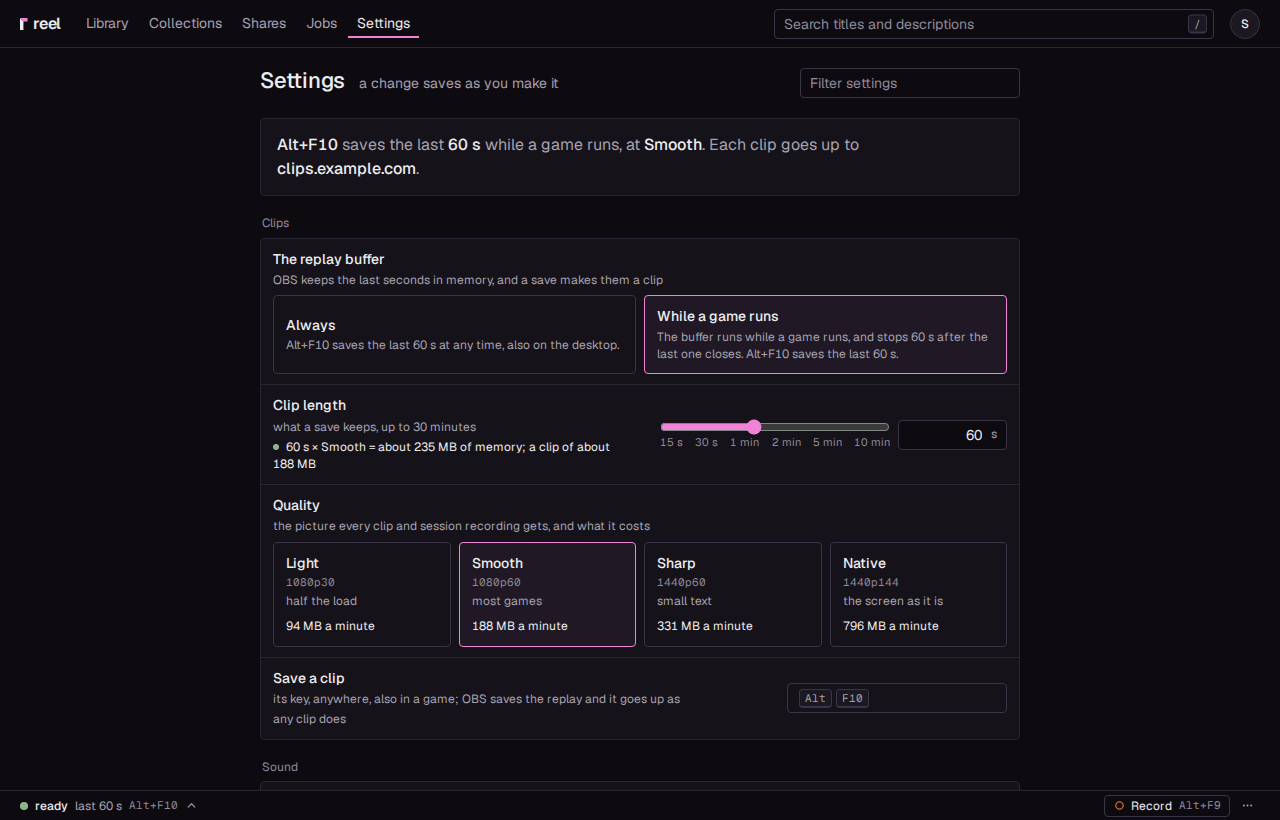
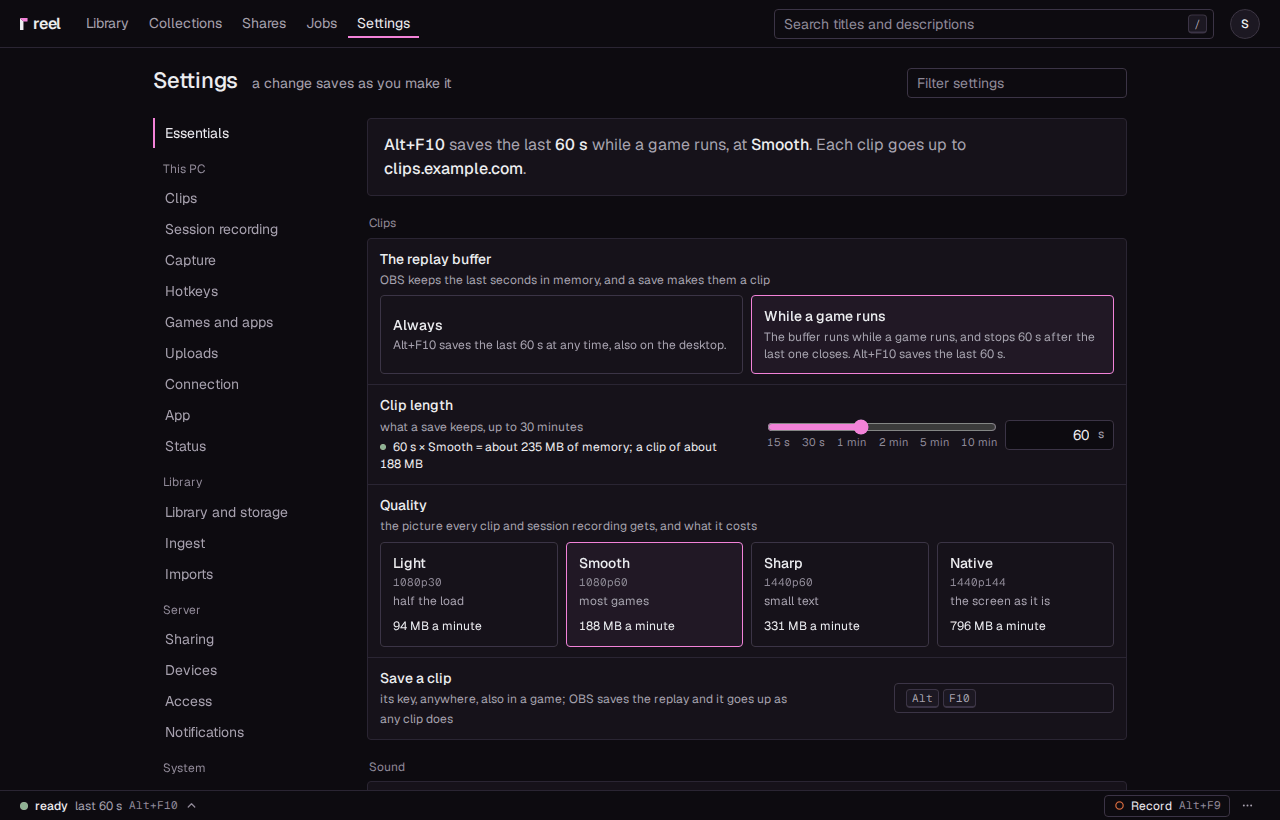
docs: Settings' nav, Essentials and the Hotkeys page, and their pictures
The docs name Essentials where they named Settings' first page, the nav where they named
More, and Hotkeys where a key is set. The desktop app's page says how the nav lists every
page, the app's and the server's, and Hotkeys has its picture. The pictures of Settings are
taken again by the repository's scripts, with Hotkeys among them.

diff --git a/docs/desktop-app.md b/docs/desktop-app.md
@@ -59,9 +59,9 @@ what only a server needs: share links (the clip page's Share, a collection's lin
 clip's menu and in the Select bar, the Shares page), members and sign-in, the Devices page, the
 public address, notifications to ntfy or a webhook, external storage, the incoming folder, the
 first run and the restart. Their addresses answer "Not in standalone" with what to do instead.
-Settings is the same, with the pages a library on one PC has: its first page, **More** without
-**Uploads**, and at its foot **Library**, reel on this PC: **Library and storage**, **Library
-folder**, **Ingest**, **Encoding**, **Copies under a size**, **Imports**, **General**,
+Settings is the same, with the pages a library on one PC has: its nav lists **Essentials**, this
+PC's pages without **Uploads**, then the library's, reel on this PC: **Library and storage**,
+**Library folder**, **Ingest**, **Encoding**, **Copies under a size**, **Imports**, **General**,
 **Appearance** and **Advanced**.
 
 A server can be paired while the app stays standalone: **Upload to the server** on Settings,
@@ -139,9 +139,9 @@ does is in a bar along the window's foot:
   on this PC runs; its dot turns red only for a check of the PC's own (its room, ffmpeg, the
   database), and **Pause uploads** shows once a server is paired. Esc closes the menu, and the
   keyboard reaches all of it.
-- **Settings** opens on what is set and the few settings most people change, each with what it
-  costs; **More** lists the app's other pages, and the server's pages (in standalone, the
-  library's) follow at its foot. Ctrl+, opens Settings from anywhere in the window.
+- **Settings** opens on **Essentials**: what is set and the few settings most people change, each
+  with what it costs. Its nav lists every other page, this PC's and then the server's (in
+  standalone, the library's). Ctrl+, opens Settings from anywhere in the window.
 
 The window has no address bar. A clip's page has its own back button above the player, and the
 mouse's back and forward buttons, Alt+Left and Alt+Right walk back and forth through the pages,
@@ -203,7 +203,7 @@ plays the recording.
 
 ## The app's pages
 
-Settings opens on its first page: a sentence of what is set (the key that saves a clip, how long
+Settings opens on **Essentials**: a sentence of what is set (the key that saves a clip, how long
 a clip is, when the replay buffer runs, the quality, and where a clip goes), then the settings
 most people change, each with what it costs:
 
@@ -216,26 +216,30 @@ most people change, each with what it costs:
 - **Start with Windows** (**Start at logon** on Linux).
 
 With your own OBS, **Clip length** is OBS's replay length, and the picture and the microphone are
-OBS's own: the first page says so, and points to **Capture**.
+OBS's own: Essentials says so, and points to **Capture**.
 
-**More** lists the app's other pages, each with what is set there, and opens each as a page of its
-own, with **Settings** above it to go back. They are kept on this PC, each PC with its own. The
-server's pages follow at the foot of the first page, under **Server**, kept on the server, the
-same for every PC and browser; in standalone the library's follow under **Library**, with
-**Library folder** and **Encoding** among them.
+The nav on the left lists every page of Settings: **Essentials**, then **This PC**, the app's own
+pages, kept on this PC, each PC with its own; then the server's pages under **Library**,
+**Server** and **System**, kept on the server, the same for every PC and browser. In standalone
+the library's pages follow under **Library**, with **Library folder** and **Encoding** among them.
+A server's page opens in the window with the same nav and the same head, so going from one page
+to another changes the page and nothing around it. In a narrow window the nav is a list at the top
+of the page. Back and Forward come back to where you were on a page; a page opened from the nav
+starts at its top.
 
-![Settings, its first page](img/app-settings.png)
+![Settings, Essentials](img/app-settings.png)
 
 | Page | Where | What it holds |
 |---|---|---|
-| **Clips** | More | **Save a clip now**; with your own OBS **Start it in OBS**, which starts its replay buffer; **Keep the last**; connected, the keys **Save and share** and **Share the last clip**; the **Sounds** (clip captured, no clip, clip uploaded or in standalone clip in the library, and link copied), each on or off, with a volume, a WAV file of your own and **Preview**; and **On this PC**: the **Clips folder** and, connected, how long a clip stays on the PC after the server has it |
-| **Session recording** | More | **Record a session**, its key; **With a game**: every game records by itself, and the recording stops when its game closes; the reminders while a [session recording](#recording-a-whole-session) runs: **Remind every** and their sound, on or off, with a volume, a WAV file of your own and **Preview**; the sound also plays when a recording starts |
-| **Capture** | More | **Picture** (the encoder and the format; with your own OBS, the format and the bitrate), **What it captures** (the game in front, games that run as administrator), **Sound** (desktop audio, the game alone, Discord alone, the microphone's noise suppression and gate, a track for each source, the levels), and **The OBS behind it**: with reel's own OBS (the one that came with reel on Windows, the installed one run a second time on Linux) which OBS and how it runs, **Open OBS** on Windows and **Run the setup again**; with your own OBS the obs-websocket connection with **Run the setup**. Folded under it: **What reel needs from OBS**, **What OBS is set to** (its profile among it) and how reel finds a new clip (**Follow OBS**, the file endings, **Still for**) |
-| **Games and apps** | More | the programs reel has seen: which ones are games, and the name each gives its clips; Steam's installed games come in by themselves; **Show on Discord**; and **When a game closes**, its grace period. The count beside it is of those not sorted yet. See [Games and apps](games-and-apps.md) |
-| **Uploads** | More, connected | **Upload the last clip**, its key; on Windows **Uploads wait while a game has the screen**, off unless you turn it on (never for a Save and share, whose upload goes at once, ahead of the others); a bandwidth limit and the chunk size. See [The waits](games-and-apps.md#the-waits) |
-| **Connection** | More | **Mode** (connected or standalone), the **Server URL**, the **Device name** and the pairing; in standalone under **A server, later**, and with a server paired **Sending to it**, its bandwidth limit and chunk size |
-| **App** | More | the **Tray icon**, the app's **Updates**, its **Versions**, and **About** (the version, the folders the app keeps its settings and data in, and on Windows **Uninstall reel...**); in standalone **Look for new versions on GitHub** |
-| **Status** | More | the connections (the server, OBS, the clips folder, the hotkeys, on Linux the tray), the queue with **Upload now** and **Retry**, the last clips with **Copy link** and **Open**, and the **Log**: what the app did, newest at the bottom, the **Log level** and **Open the log folder**. In standalone: the library on this PC in place of the server, a **Standalone** panel (where the library lives, the encoder, ffmpeg), **Add now** and **Retry** to take a clip into the library, the last clips with **Open**, and **Upload to the server** once a server is paired |
+| **Clips** | This PC | **Save a clip now**; with your own OBS **Start it in OBS**, which starts its replay buffer; **Keep the last**; connected, the keys **Save and share** and **Share the last clip**; the **Sounds** (clip captured, no clip, clip uploaded or in standalone clip in the library, and link copied), each on or off, with a volume, a WAV file of your own and **Preview**; and **On this PC**: the **Clips folder** and, connected, how long a clip stays on the PC after the server has it |
+| **Session recording** | This PC | **Record a session**, its key; **With a game**: every game records by itself, and the recording stops when its game closes; the reminders while a [session recording](#recording-a-whole-session) runs: **Remind every** and their sound, on or off, with a volume, a WAV file of your own and **Preview**; the sound also plays when a recording starts |
+| **Capture** | This PC | **Picture** (the encoder and the format; with your own OBS, the format and the bitrate), **What it captures** (the game in front, games that run as administrator), **Sound** (desktop audio, the game alone, Discord alone, the microphone's noise suppression and gate, a track for each source, the levels), and **The OBS behind it**: with reel's own OBS (the one that came with reel on Windows, the installed one run a second time on Linux) which OBS and how it runs, **Open OBS** on Windows and **Run the setup again**; with your own OBS the obs-websocket connection with **Run the setup**. Folded under it: **What reel needs from OBS**, **What OBS is set to** (its profile among it) and how reel finds a new clip (**Follow OBS**, the file endings, **Still for**) |
+| **Hotkeys** | This PC | every hotkey of the app, each set there or with the settings it belongs to: **Save a clip** (also under Essentials), **Save and share** and **Share the last clip** (also under Clips), **Upload the last clip** (also under Uploads) and **Record a session** (also under Session recording); on Linux, how a hotkey reaches the app. See [Hotkeys](#hotkeys) |
+| **Games and apps** | This PC | the programs reel has seen: which ones are games, and the name each gives its clips; Steam's installed games come in by themselves; **Show on Discord**; and **When a game closes**, its grace period. The count beside it is of those not sorted yet. See [Games and apps](games-and-apps.md) |
+| **Uploads** | This PC, connected | **Upload the last clip**, its key; on Windows **Uploads wait while a game has the screen**, off unless you turn it on (never for a Save and share, whose upload goes at once, ahead of the others); a bandwidth limit and the chunk size. See [The waits](games-and-apps.md#the-waits) |
+| **Connection** | This PC | **Mode** (connected or standalone), the **Server URL**, the **Device name** and the pairing; in standalone under **A server, later**, and with a server paired **Sending to it**, its bandwidth limit and chunk size |
+| **App** | This PC | the **Tray icon**, the app's **Updates**, its **Versions**, and **About** (the version, the folders the app keeps its settings and data in, and on Windows **Uninstall reel...**); in standalone **Look for new versions on GitHub** |
+| **Status** | This PC | the connections (the server, OBS, the clips folder, the hotkeys, on Linux the tray), the queue with **Upload now** and **Retry**, the last clips with **Copy link** and **Open**, and the **Log**: what the app did, newest at the bottom, the **Log level** and **Open the log folder**. In standalone: the library on this PC in place of the server, a **Standalone** panel (where the library lives, the encoder, ffmpeg), **Add now** and **Retry** to take a clip into the library, the last clips with **Open**, and **Upload to the server** once a server is paired |
 | **Library folder** (standalone) | Library | where the library is on this PC, with **Move** and **Make a copy**, the **Library cap** and **The cap spares unsent clips** |
 | **Encoding** (standalone) | Library | the **GPU encoder** and the one in use, **Copies on the GPU**, and on Windows **Encoding waits while a game has the screen**, off unless you turn it on. See [The waits](games-and-apps.md#the-waits) |
 
@@ -247,9 +251,13 @@ user can read, in the app's settings folder.
 
 ## Hotkeys
 
-The five hotkeys: **Save a clip** on Settings' first page, **Save and share** and **Share the last
-clip** under Settings, **Clips**, **Upload the last clip** under **Uploads** and **Record a session**
-under **Session recording**:
+The five hotkeys are all on Settings, **Hotkeys**, and each also sits with the settings it belongs
+to: **Save a clip** under **Essentials**, **Save and share** and **Share the last clip** under
+**Clips**, **Upload the last clip** under **Uploads** and **Record a session** under **Session
+recording**. A key set in one place is the same key in the other.
+
+![Settings, Hotkeys](img/app-hotkeys.png)
+
 
 | Hotkey | Default | What it does |
 |---|---|---|
@@ -281,7 +289,7 @@ One exception: a game that runs as administrator does not pass its keys to the a
 **On Linux** global hotkeys depend on your desktop: they may not work, or may need to be set up in
 the desktop's own keyboard settings. There you can bind a key to `reel-desktop --save-and-share`
 (or `--save`, `--share-last`, `--pause-recording`, `--resume-recording`, `--record-session`). With the AppImage the command is the AppImage's path, which
-Settings shows under **Save a clip**.
+Settings shows under **Hotkeys** (and under **Save a clip** on **Essentials**).
 
 ## Updates
 

diff --git a/docs/setup/own-obs.md b/docs/setup/own-obs.md
@@ -91,9 +91,9 @@ before an update opens as it did, without the setup.
 
 ## 3. OBS's settings, later
 
-Settings has what the setup set and more, and writes into OBS for you what it sets there. On its
-first page, **Clip length** is OBS's replay length. Under **Clips**, **Start it in OBS** starts
-OBS's replay buffer, and **On this PC** has OBS's **Recording folder**. Under **Capture**,
+Settings has what the setup set and more, and writes into OBS for you what it sets there. On
+**Essentials**, its first page, **Clip length** is OBS's replay length. Under **Clips**, **Start
+it in OBS** starts OBS's replay buffer, and **On this PC** has OBS's **Recording folder**. Under **Capture**,
 **Picture** has OBS's format and bitrate, and **The OBS behind it** the **obs-websocket**
 connection, with **What OBS is set to** folded under it.
 
@@ -118,12 +118,13 @@ safety net too, so a clip saved while OBS and the app were not talking is still 
     runs whenever you play. To keep Streamer Mode off: in Discord, **User Settings**, **Streamer
     Mode** (in newer versions under **Appearance**), turn off **Automatically Enable/Disable**.
 
-**Save a clip**, its key, is on Settings' first page later: click the field and press the keys. A
-combination another program holds is refused with a reason, and the field keeps what it had. With
-a server there are three more keys: **Save and share** and **Share the last clip** under **Clips**,
-and **Upload the last clip** under **Uploads** ([Hotkeys](../desktop-app.md#hotkeys)).
+**Save a clip**, its key, is on Settings, **Essentials** later: click the field and press the
+keys. A combination another program holds is refused with a reason, and the field keeps what it
+had. With a server there are three more keys: **Save and share** and **Share the last clip** under
+**Clips**, and **Upload the last clip** under **Uploads**; **Hotkeys** has all of them
+([Hotkeys](../desktop-app.md#hotkeys)).
 
-![Settings, its first page](img/app-settings.png)
+![Settings, Essentials](img/app-settings.png)
 
 ## 4. The first clip
 

diff --git a/docs/setup/linux.md b/docs/setup/linux.md
@@ -148,7 +148,10 @@ sandbox.
 Global hotkeys on Linux depend on your desktop: they may not work, or may need to be set up in the
 desktop's own keyboard settings. There you can bind a key to `reel-desktop --save` (Save a clip)
 or `--record-session` (Record a session), or with a server `--save-and-share` and `--share-last`. With the AppImage, the command is the
-AppImage's path, which Settings shows under **Save a clip**.
+AppImage's path, which Settings shows under **Hotkeys** and under **Save a clip** on
+**Essentials**.
+
+![Settings, Hotkeys on Linux, with how a hotkey reaches the app](img/app-hotkeys-linux.png)
 
 ## 6. The first clip
 
@@ -186,7 +189,7 @@ Then make your first link:
 
 ## Good to know
 
-- **Start at logon**: on Settings' first page. For the AppImage the entry points at the AppImage's
+- **Start at logon**: on Settings, **Essentials**. For the AppImage the entry points at the AppImage's
   own path, so after moving the file, turn it off and on again.
 - **NVIDIA**: with NVIDIA's driver, WebKitGTK's DMA-BUF renderer leaves windows blank, and on
   Wayland NVIDIA's explicit sync breaks them. reel turns both off for itself unless you set

diff --git a/docs/games-and-apps.md b/docs/games-and-apps.md
@@ -1,6 +1,6 @@
 # Games and apps
 
-Settings, **Games and apps**, under **More**, is the list of the programs reel
+Settings, **Games and apps**, under **This PC**, is the list of the programs reel
 has seen on this PC: which ones are games, the name each gives its clips, and what each does
 while it runs: whether the replay buffer runs, whether a session recording starts by itself and
 stops when it closes, and whether uploads and encoding wait. Steam's installed games come into it
@@ -123,7 +123,7 @@ says each start and close of a program of the list, for example `game: Ember Pas
 
 ### The replay buffer
 
-On Settings' first page, **The replay buffer**, its two cards:
+On Settings, **Essentials**, **The replay buffer**, its two cards:
 
 - **Always**, the default: as before, a clip can be saved at any time.
 - **While a game runs**: OBS's replay buffer starts with a game and stops once the last

diff --git a/docs/setup/all-in-one.md b/docs/setup/all-in-one.md
@@ -206,8 +206,8 @@ as well.
 ## Afterwards
 
 - **Change the setup**: Settings has every choice of the setup: the clip length, the quality and
-  the microphone on its first page, the rest under **Capture**, the sources a clip hears among
-  them, with **Run the setup again**. Its values are OBS's own: reel reads them
+  the microphone on **Essentials**, its first page, the rest under **Capture**, the sources a clip
+  hears among them, with **Run the setup again**. Its values are OBS's own: reel reads them
   from OBS, so a change you make in OBS shows there too. A change made here goes into OBS, that
   setting alone. When it starts, reel writes nothing into OBS; it only makes sure the WebSocket and
   the replay buffer are on.

diff --git a/docs/uninstalling.md b/docs/uninstalling.md
@@ -63,14 +63,14 @@ and the clips folder.
 
 === "The AppImage"
 
-    1. Turn off **Start at logon** (on Settings' first page), so nothing
+    1. Turn off **Start at logon** (on Settings, **Essentials**), so nothing
        tries to start reel at your next login.
     2. Quit reel from its tray icon.
     3. Delete the AppImage file.
 
 === "The .deb"
 
-    1. Turn off **Start at logon** (on Settings' first page).
+    1. Turn off **Start at logon** (on Settings, **Essentials**).
     2. Quit reel from its tray icon.
     3. Remove the package:
 

diff --git a/docs/troubleshooting.md b/docs/troubleshooting.md
@@ -343,7 +343,7 @@ App, **Updates** tries again.
 so they may not work, or may need setting up in the desktop's own
 keyboard settings. There you can bind a key to `reel-desktop
 --save-and-share` (or `--save`, `--share-last`); Settings shows the exact
-command for the AppImage under **Save a clip**
+command for the AppImage under **Hotkeys**
 ([The desktop app](desktop-app.md#hotkeys)).
 
 **No tray icon.** GNOME shows no tray icons without the AppIndicator
